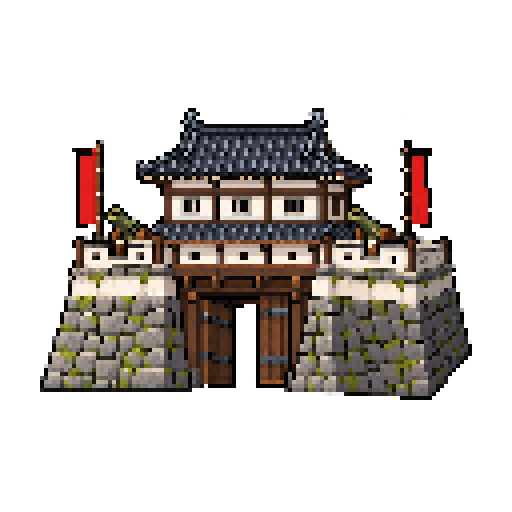
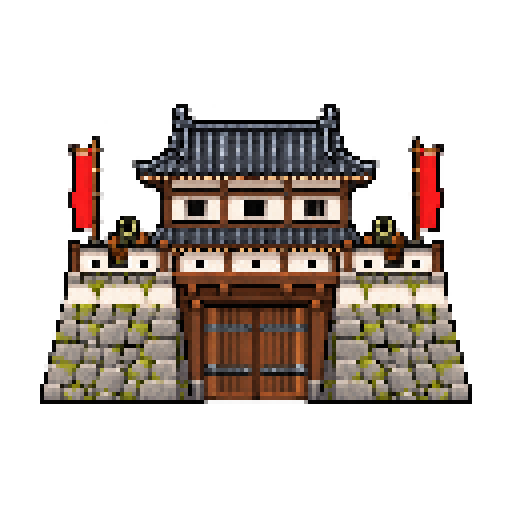
Adopt approved front-facing fortress and cannons

diff --git a/Docs/Art/character-art-status.html b/Docs/Art/character-art-status.html
@@ -29,6 +29,7 @@ main{padding:20px 24px;max-width:1600px;margin:auto}h2{font-size:18px;margin:0 0
 <tr><th>シンプル化・形状修正</th><td><span class="done">鈴・糸・丑の装飾を除去。山は左右非対称の稜線、散弾は三銃身ポンプ式へ変更</span>。</td></tr>
 <tr><th>自然な表現への改訂</th><td><span class="done">丑はホルスタイン、山は岩肌の繰り返しを減らして粗いドットに。草は土に根付き、要塞の砲は平行、風は左から右へ</span>。</td></tr>
 <tr><th>奥行き・山頂の補正</th><td><span class="done">要塞は右壁の厚み・側面・角を追加。山頂は高さの違う二峰と浅い鞍部へ変更</span>。</td></tr>
+<tr><th>要塞の最終視点</th><td><span class="done">承認された正面図へ統一。左右の石垣・屋根・門を揃え、大砲2門もこちら向きへ変更</span>。前段の斜め右壁・斜め砲身は不採用。</td></tr>
 <tr><th>攻撃エフェクトとの整合</th><td><span class="pending">未完</span>：少なくとも剣・槌・槍は従来の攻撃素材を使用。召喚と別の画像系統。</td></tr>
 <tr><th>進化・超融合・究極融合</th><td><span class="pending">今回の画像セットには未収録</span>。</td></tr>
 <tr><th>外部公開</th><td><span class="pending">今回分は未公開</span>：最新版はローカルプレビューのみ。</td></tr>
@@ -37,7 +38,7 @@ main{padding:20px 24px;max-width:1600px;margin:auto}h2{font-size:18px;margin:0 0
 <div class="toolbar"><select id="group" aria-label="画像の区分"><option value="">すべて</option><option>既存系列</option><option>役割・題材変更</option><option>新キャラ</option><option>融合</option><option>分身</option></select><input id="search" type="search" aria-label="キャラクター名" placeholder="キャラクター名"><span id="count"></span></div>
 <div class="scroll"><table class="comparison"><thead><tr><th>キャラ・区分</th><th>以前のコマ<br><small>味方／敵</small></th><th>現在使用中のコマ<br><small>味方／敵</small></th><th>以前のモチーフ</th><th>現在使用中のモチーフ</th><th>制作・接続・残り</th></tr></thead><tbody id="rows"></tbody></table></div>
 <p class="note">「以前」は今回のコマ・モチーフ制作に入る前の画像。「役割・題材変更」の旧画像は参考であり、そのまま現キャラへ戻す対象とは限りません。画像の参照が正しいことと、デザインの採用が確定していることは別です。</p>
-<p class="note">2026-10-25：全45組の画像参照を確認。最新の要塞・山は召喚・消去の2件が成功（登録73件の全件再実行ではありません）。各行の全体的な個別目視は未完とし、代表テストの成功を全キャラの確認完了に読み替えていません。</p>
+<p class="note">2026-10-25：全45組の画像参照を確認。承認済みの正面要塞は召喚・消去の1件が成功（登録73件の全件再実行ではありません）。各行の全体的な個別目視は未完とし、代表テストの成功を全キャラの確認完了に読み替えていません。</p>
 <p id="error" role="alert"></p>
 </main>
 <script>

diff --git a/Docs/Art/CharacterArtProduction.md b/Docs/Art/CharacterArtProduction.md
@@ -47,7 +47,16 @@
 
 繭の保護表示は漢字へ文字を重ねない金色の枠へ変更。敵用コマは朱塗り・白文字で、通常コマと融合コマの両方を用意した。
 
-## 右壁・山頂の追加修正（2026-10-25）
+## 正面要塞の承認反映（2026-10-25）
+
+- ユーザー承認済みの`FortressFrontCannonsCandidate.png`を採用し、`FortressFrontCannons.png`として本番原画へ保存。建物は正面視点、左右の石垣・門・屋根の高さと基準線を揃え、大砲も2門ともこちら向き。前段の斜め右壁・斜め砲身は採用しない。前案は履歴として維持。
+- 変更は要塞のモチーフ1枚と参照・記録のみ。コマ・他44組・性能・スキル演出は変更しない。原画・全プロンプトと参照は`CharacterArtRefinements.json`。
+- 次工程のスキル表現は今回未制作。既存の武器・投射物VFXを使うものと専用表現が必要なものを分ける。コード上、電・風等の`PlayElementEffect`は発光・文字・セル強調中心、双剣は剣／斬撃、散弾は銃弾VFXを再利用している。画像の制作済みとゲームへの接続済みは区別して扱う。
+- 45組135画像の透過・非空・グリッド、旧20組の参照維持・元コマ一致、一覧の読込・拡大・分類・スマホ表示を確認。Unity取込45組Passed・終了コード0。比較表45行の画像読込も確認。
+- 正面要塞のWebGL召喚・コマ復帰1/1成功（`tmp/e2e/front-fortress/`）。テスト基盤9/9成功。全73件、戦闘ルール回帰、データ検証の再実行ではない。外部公開はしていない。
+- 通常ローカル版も更新し、PC・スマホ縦長・横長の描画、画面内の収まり、実行時例外なしを確認。
+
+## 右壁・山頂の追加修正（2026-10-25、正面統一前の履歴）
 
 - 要塞の右壁に側面・天端と角を追加し、正面石垣から連続した厚い構造へ修正（`FortressThickCorner.png`）。右側面は暗めにし石の段を角でつなぐ。大砲2門の平行な向きは維持。
 - 山は頂上を少し削って浅い鞍部を作り、高さの違う二つの峰に変更（`MountainTwinSummit.png`）。64px相当、短く急な左斜面・長く緩い右斜面を維持。コマ・他のモチーフ・性能は変更しない。
